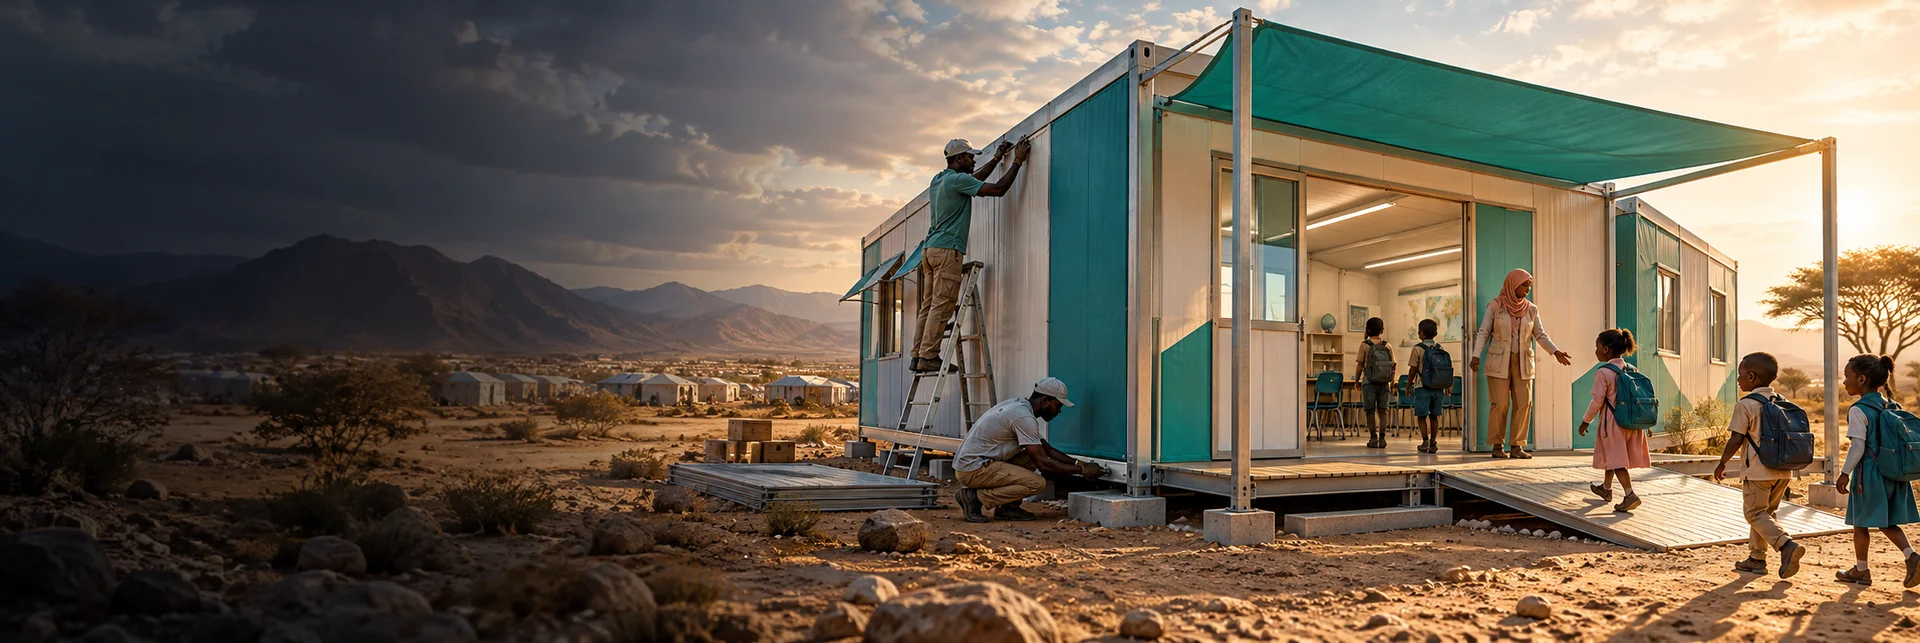
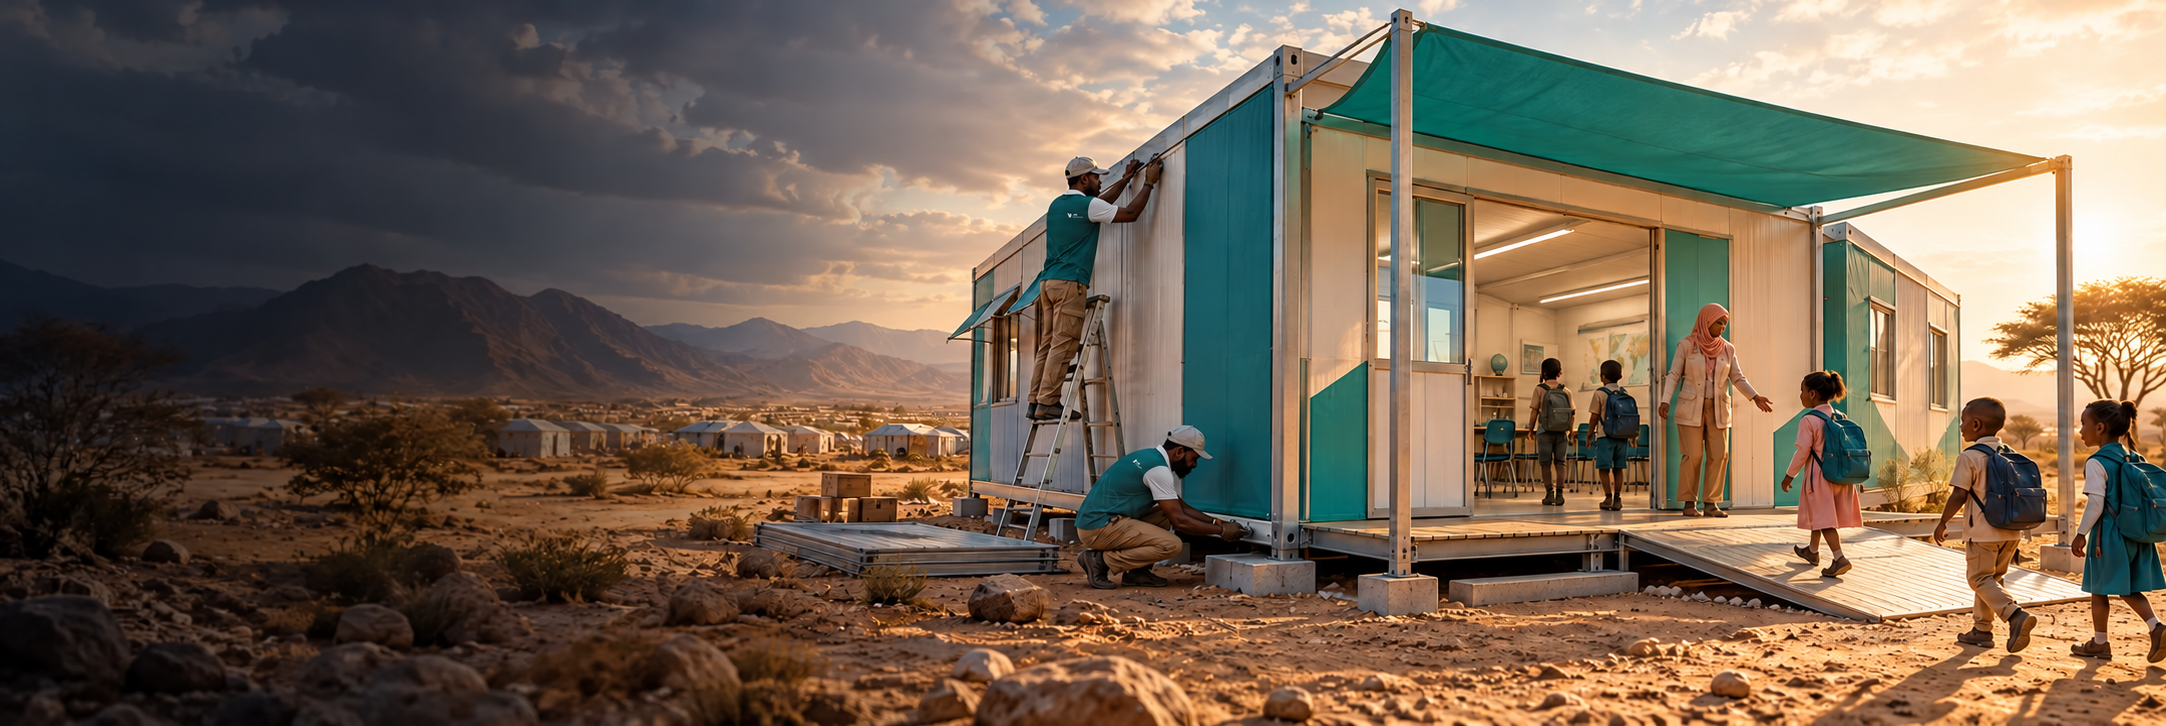
chore: update brand imagery and fix Arabic emergency title wording

diff --git a/content/site.ts b/content/site.ts
@@ -362,7 +362,7 @@ export const copy = {
       "يجمع مصنعنا الذكي إنتاج الأثاث التقليدي والذكي. التصنيع الرشيق والقطع الذكي وفحص الجودة على ثلاث مراحل يحولون التصميم المدروس إلى بيئات تعلم يمكن الاعتماد عليها.",
     factoryTags: ["مساران للإنتاج", "قطع ذكي ودقيق", "ثلاث مراحل لفحص الجودة"],
     emergencyLabel: "٠٥ / تعليم بلا حدود",
-    emergencyTitle: "صندوق من الإمكانات.\nومستقبل من التعلم.",
+    emergencyTitle: "صندوق من الإمكانيات.\nومستقبل من التعلم.",
     emergencyText:
       "BIG SCHOOL IN A BOX حل لوجستي متكامل وسريع التجهيز لاستمرار التعليم في مناطق الأزمات والكوارث. فكرة متكاملة تنطلق من حق الجميع في مواصلة التعلم.",
     valuesLabel: "التزامنا",
